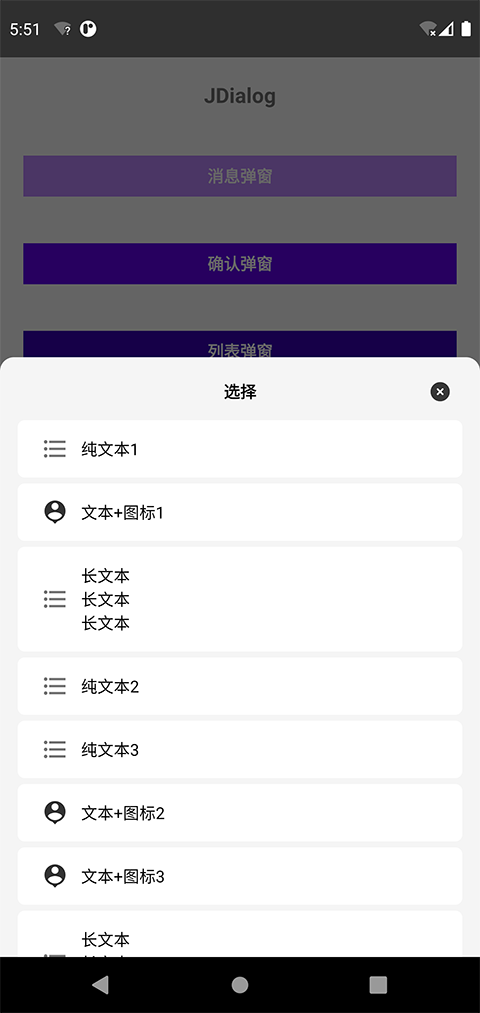
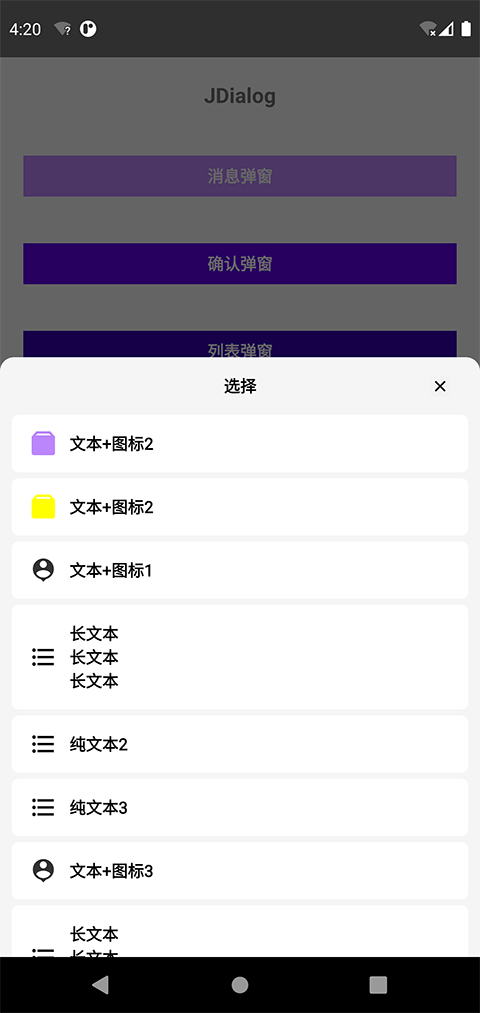
Version 3.1 更新文档

diff --git a/README.md b/README.md
@@ -42,39 +42,40 @@ dependencies {
 ##### 1、Info dialog 消息弹窗
 
 ```
-		String title = "版本升级";
-        String text = "本次更新:\n\n1. 修复bug\n2. 修复bug";
-        SpannableString user_protocol = new SpannableString("测试链接点击");
-        user_protocol.setSpan(new ClickableSpan() {
-            @Override
-            public void onClick(View widget) {
-                Toast.makeText(context, "点击了文本内链接", Toast.LENGTH_SHORT).show();
-            }
+String title = "版本升级";
+String text = "本次更新:\n\n1. 修复bug\n2. 修复bug\n3. 修复bug\n4. 修复bug\n5. 修复bug\n1. 修复bug\n2. 修复bug\n3. 修复bug\n4. 修复bug\n5. 修复bug\n1. 修复bug\n2. 修复bug\n3. 修复bug\n4. 修复bug\n5. 修复bug\n1. 修复bug\n2. 修复bug\n3. 修复bug\n4. 修复bug\n5. 修复bug\n1. 修复bug\n2. 修复bug\n3. 修复bug\n4. 修复bug\n5. 修复bug\n";
+SpannableString user_protocol = new SpannableString("测试链接点击");
+user_protocol.setSpan(new ClickableSpan() {
+@Override
+public void onClick(View widget) {
+Toast.makeText(context, "点击了文本内链接", Toast.LENGTH_SHORT).show();
+}
 
-            @Override
-            public void updateDrawState(TextPaint ds) {
-                super.updateDrawState(ds);
-                ds.setColor(Color.GREEN);
-            }
-        }, 0, user_protocol.length(), Spanned.SPAN_EXCLUSIVE_EXCLUSIVE);
+@Override
+public void updateDrawState(TextPaint ds) {
+super.updateDrawState(ds);
+ds.setColor(Color.GREEN);
+}
+}, 0, user_protocol.length(), Spanned.SPAN_EXCLUSIVE_EXCLUSIVE);
 
-        JInfoDialog jDialog = new JInfoDialog(context);
-        jDialog.setTitle(title);
-        jDialog.setText(text);
-        jDialog.appendText(user_protocol);
-        jDialog.setTextScrollable();
-        jDialog.onButtonClick(new OnButtonClickListener() {
-            @Override
-            public void closeClick() {
-                Toast.makeText(context, "点击了关闭按钮", Toast.LENGTH_SHORT).show();
-            }
+JInfoDialog jDialog = new JInfoDialog(context);
+jDialog.setTitle(title);
+jDialog.setText(text);
+jDialog.appendText(user_protocol);
+jDialog.setTextBold();
+jDialog.setTextScrollable();
+jDialog.onButtonClick(new OnButtonClickListener() {
+@Override
+public void closeClick() {
+Toast.makeText(context, "点击了关闭按钮", Toast.LENGTH_SHORT).show();
+}
 
-            @Override
-            public void confirmClick() {
-                Toast.makeText(context, "点击了确认按钮", Toast.LENGTH_SHORT).show();
-            }
-        });
-        jDialog.show();
+@Override
+public void confirmClick() {
+Toast.makeText(context, "点击了确认按钮", Toast.LENGTH_SHORT).show();
+}
+});
+jDialog.show();
 ```
 
 <img src="https://github.com/jousen/jdialog/blob/main/img/1.png" alt="1" style="zoom: 25%;" />
@@ -84,25 +85,25 @@ dependencies {
 ##### 2、Confirm dialog 确认弹窗
 
 ```
-		String title = "删除确认删除确认删除确认删除确认删除确认";
-        String text = "确定要删除吗？";
+String title = "删除确认删除确认删除确认删除确认删除确认";
+String text = "确定要删除吗？";
 
-        JConfirmDialog jDialog = new JConfirmDialog(context);
-        jDialog.setTitle(title, 4);//setTitle(String title, int titleMaxLength)
-        jDialog.setText(text);
-        jDialog.setConfirmText("立刻删除");
-        jDialog.onButtonClick(new OnButtonClickListener() {
-            @Override
-            public void closeClick() {
-                Toast.makeText(context, "点击了取消按钮", Toast.LENGTH_SHORT).show();
-            }
+JConfirmDialog jDialog = new JConfirmDialog(context);
+jDialog.setTitle(title, 4);//setTitle(String title, int titleMaxLength)
+jDialog.setText(text);
+jDialog.setConfirmText("立刻删除");
+jDialog.onButtonClick(new OnButtonClickListener() {
+@Override
+public void closeClick() {
+Toast.makeText(context, "点击了取消按钮", Toast.LENGTH_SHORT).show();
+}
 
-            @Override
-            public void confirmClick() {
-                Toast.makeText(context, "点击了确认按钮", Toast.LENGTH_SHORT).show();
-            }
-        });
-        jDialog.show();
+@Override
+public void confirmClick() {
+Toast.makeText(context, "点击了确认按钮", Toast.LENGTH_SHORT).show();
+}
+});
+jDialog.show();
 ```
 
 
@@ -114,25 +115,22 @@ dependencies {
 ##### 3、List dialog 列表弹窗
 
 ```
-		List<JDialogItem> jDialogItems = new ArrayList<>();
-		//自定义icon颜色
-		jDialogItems.add(new JDialogItem(R.drawable.ic_box, "文本+图标2", getResources().getColor(R.color.purple_200)));
-        jDialogItems.add(new JDialogItem(R.drawable.ic_box, "文本+图标2", Color.YELLOW));
-        
-        jDialogItems.add(new JDialogItem("纯文本1"));
-        jDialogItems.add(new JDialogItem(R.drawable.ic_test_icon, "文本+图标1"));
-        jDialogItems.add(new JDialogItem("长文本\n长文本\n长文本"));
-        jDialogItems.add(new JDialogItem("纯文本2"));
-        jDialogItems.add(new JDialogItem("纯文本3"));
-        jDialogItems.add(new JDialogItem(R.drawable.ic_test_icon, "文本+图标2"));
-        jDialogItems.add(new JDialogItem(R.drawable.ic_test_icon, "文本+图标3"));
-        jDialogItems.add(new JDialogItem("长文本\n长文本\n长文本"));
-        jDialogItems.add(new JDialogItem("长文本\n长文本\n长文本"));
+List<JDialogItem> jDialogItems = new ArrayList<>();
+jDialogItems.add(new JDialogItem(R.drawable.ic_box, "文本+图标2", getResources().getColor(R.color.purple_200)));
+jDialogItems.add(new JDialogItem(R.drawable.ic_box, "文本+图标2", Color.YELLOW));
+jDialogItems.add(new JDialogItem(R.drawable.ic_test_icon, "文本+图标1"));
+jDialogItems.add(new JDialogItem("长文本\n长文本\n长文本"));
+jDialogItems.add(new JDialogItem("纯文本2"));
+jDialogItems.add(new JDialogItem("纯文本3"));
+jDialogItems.add(new JDialogItem(R.drawable.ic_test_icon, "文本+图标3"));
+jDialogItems.add(new JDialogItem("长文本\n长文本\n长文本"));
+jDialogItems.add(new JDialogItem("长文本\n长文本\n长文本"));
 
-        JListDialog jDialog = new JListDialog(context);
-        jDialog.setData(jDialogItems);
-        jDialog.onItemClick(position -> Toast.makeText(context, "点击了第 " + position + " 项", Toast.LENGTH_SHORT).show());
-        jDialog.show();
+JListDialog jDialog = new JListDialog(context);
+jDialog.setData(jDialogItems);
+jDialog.setTextBold();
+jDialog.onItemClick(position -> Toast.makeText(context, "点击了第 " + position + " 项", Toast.LENGTH_SHORT).show());
+jDialog.show();
 ```
 
 
@@ -144,24 +142,24 @@ dependencies {
 ##### 4、Grid dialog 网格弹窗
 
 ```
-		List<JDialogItem> jDialogItems = new ArrayList<>();
-        jDialogItems.add(new JDialogItem("网格文本1"));
-        jDialogItems.add(new JDialogItem(R.drawable.ic_test_icon, "网格文本2"));
-        jDialogItems.add(new JDialogItem(R.drawable.ic_test_icon, "网格文本3"));
-        jDialogItems.add(new JDialogItem(R.drawable.ic_test_icon, "网格文本4"));
-        jDialogItems.add(new JDialogItem(R.drawable.ic_test_icon, "网格文本5"));
-        jDialogItems.add(new JDialogItem(R.drawable.ic_test_icon, "网格文本6"));
+List<JDialogItem> jDialogItems = new ArrayList<>();
+jDialogItems.add(new JDialogItem(R.drawable.ic_box, "网格文本1", getResources().getColor(R.color.purple_200)));
+jDialogItems.add(new JDialogItem(R.drawable.ic_test_icon, "网格文本2"));
+jDialogItems.add(new JDialogItem(R.drawable.ic_test_icon, "网格文本3"));
+jDialogItems.add(new JDialogItem(R.drawable.ic_test_icon, "网格文本4"));
+jDialogItems.add(new JDialogItem(R.drawable.ic_test_icon, "网格文本5"));
+jDialogItems.add(new JDialogItem(R.drawable.ic_test_icon, "网格文本6"));
 
-        JListDialog jDialog = new JListDialog(context);
-        jDialog.setData(jDialogItems);
-        jDialog.setGridMode(4);
-        jDialog.onItemClick(position -> Toast.makeText(context, "点击了第 " + position + " 项", Toast.LENGTH_SHORT).show());
-        jDialog.show();
+JListDialog jDialog = new JListDialog(context);
+jDialog.setData(jDialogItems);
+jDialog.setGridMode(4);
+jDialog.onItemClick(position -> Toast.makeText(context, "点击了第 " + position + " 项", Toast.LENGTH_SHORT).show());
+jDialog.show();
 ```
 
 
 
-<img src="https://github.com/jousen/jdialog/blob/main/img/3.png" style="zoom:25%;" />
+<img src="https://github.com/jousen/jdialog/blob/main/img/4.png" style="zoom:25%;" />
 
 ------
 
